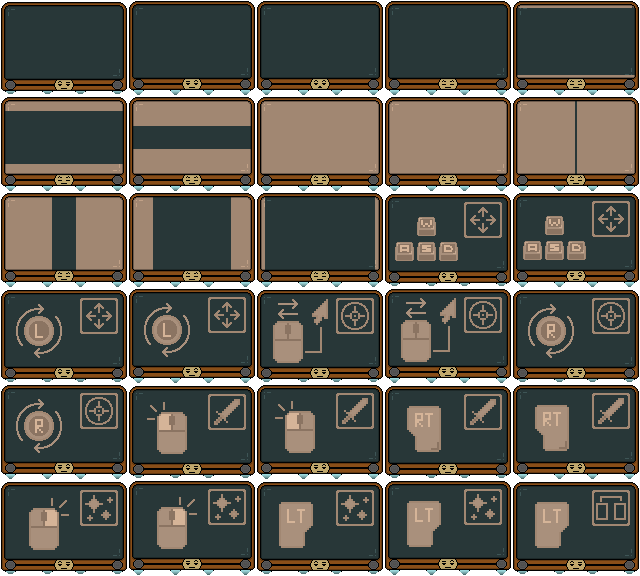
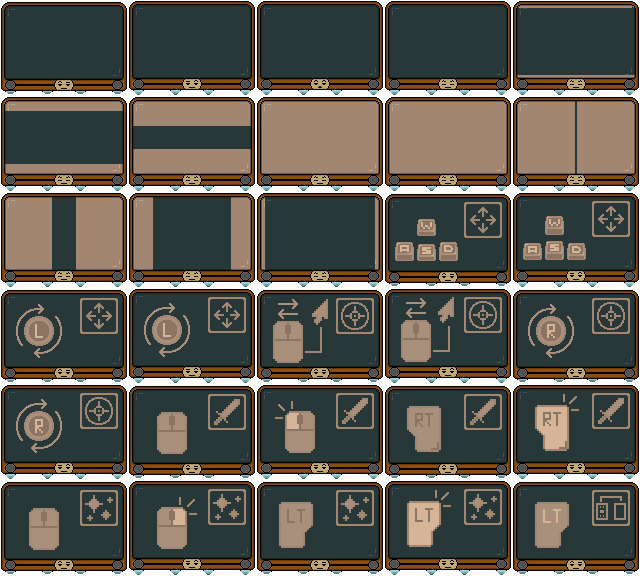
Paso movimiento
Les pongo como coautores porque hemos desarrollado codigo mediante el liveShare de Visual Studio

diff --git a/Game/Game/src/scenes/TutorialScene.cpp b/Game/Game/src/scenes/TutorialScene.cpp
@@ -1,35 +1,108 @@
 #include "TutorialScene.h"
 
 TutorialScene::TutorialScene(BattleType bt) : BattleScene(bt, true), current(Movimiento), screen(nullptr), 
-		popup(nullptr), testEnemy(nullptr), tuto(nullptr) {
+		testEnemy(nullptr), tuto(nullptr), tutoPopUp(nullptr), text(nullptr), button(nullptr) {
 
 	// Le impedimos el movimiento y el ataque
-	player->getComponent<PlayerInputComponent>()->setCanMove(true);
+	player->getComponent<PlayerInputComponent>()->setCanMove(false);
 	player->getComponent<PlayerInputComponent>()->setCanAttack(false);
+	pointer->setShowPointer(false);
+
+	CardComponent* a = player->getComponent<CardComponent>();
 
 	//Añadimos el controlador del tutorial
-	tutorialController = addGameObject();
-	tutorialController->addComponent<TutorialComponent>(this);
-
-	//Objeto tuto
-	tuto = addGameObject<Tuto>(_grp_UI, player->getComponent<Transform>());
+	GameObject* tc = addGameObject();
+	tutorialController = tc->addComponent<TutorialComponent>([&]() { activatePopUp(); }, getSteps());
 }
 
+void TutorialScene::activateInput() {
+	player->getComponent<PlayerInputComponent>()->setCanMove(true);
+}
+
+void TutorialScene::addCard() {
+	// ENSEÑAMOS LA CARTA (LA ESPADA)
+	createHand(player->getComponent<CardComponent>());
+	player->getComponent<PlayerInputComponent>()->setCanAttack(false);
+}
+
+void TutorialScene::addMeleeEnemy() {
+	// AÑADIMOS UN ENEMIGO A LA ESCENA
+	Vector2D spawnPos = player->getComponent<Transform>()->getPos() + Vector2D(MELEE_ENEMY_WIDTH + 50, 0);
+	GameObject* enemy = addGameObject<MeleeEnemy>(_grp_ENEMIES, spawnPos, MELEE_LIFE, player);
+}
+
+void TutorialScene::showAbility() {
+	// 
+}
+
+void TutorialScene::showDrops() {
+
+}
+
+void TutorialScene::showPortalCharges() {
+
+}
+
+// Activa el popup
 void TutorialScene::activatePopUp() {
+
 	// Le impedimos el movimiento y el ataque
 	player->getComponent<PlayerMovementComponent>()->setDirection(Vector2D());
 	player->getComponent<PlayerInputComponent>()->setCanMove(false);
 	player->getComponent<PlayerInputComponent>()->setCanAttack(false);
 
-	pointer->setShowPointer(false);
+	// Mostrar puntero de ratón
+	pointer->setShowPointer(true);
+	
+	// Objeto que cubre la pantalla
+	screen = addGameObject(_grp_UI);
+	screen->addComponent<Transform>(Vector2D(), VECTOR_ZERO, WIN_WIDTH, WIN_HEIGHT);
+	screen->addComponent<Image>(&sdlutils().images().at("Screen"))->attachToCamera();
 
-	//// Objeto que cubre la pantalla
-	//screen = addGameObject(_grp_TUTORIAL);
-	//screen->addComponent<Transform>(Vector2D(), VECTOR_ZERO, WIN_WIDTH, WIN_HEIGHT);
-	//screen->addComponent<Image>(&sdlutils().images().at("Screen"))->attachToCamera();
+	// Imagen de tuto (cambiar luego t->width por constantes)
+	Texture* t = &sdlutils().images().at("TutoTalking");
+	tutoPopUp = addGameObject(_grp_UI);
+	tutoPopUp->addComponent<Transform>(Vector2D(WIN_WIDTH/2 - t->width() * PIXEL_WIDTH /2, 0), Vector2D(), t->width() * PIXEL_WIDTH, t->height()/2 * PIXEL_HEIGHT);
+	Animator* anim = tutoPopUp->addComponent<Animator>(t, 376, 284, 2, 1);
+	anim->attachToCamera();
+	anim->createAnim("idle", 0, 1, 2, -1);
+	anim->play("idle");
+
+	// Boton
+	AnimatorInfo aI = AnimatorInfo(EXIT);
+	button = addGameObject<Button>(_grp_UI, [&]() { deactivatePopUp(); }, Vector2D(WIN_WIDTH / 2 - MM_BUTTON_WIDTH / 2, WIN_HEIGHT - MM_BUTTON_HEIGHT - 10), aI);
+	button->getComponent<Animator>()->attachToCamera();
 }
 
+// Desactiva el popup
 void TutorialScene::deactivatePopUp() {
+
+	// Objeto tuto
+	if (tuto == nullptr) tuto = addGameObject<Tuto>(_grp_UI, player->getComponent<Transform>());
+
+	// Desactivar
 	screen->setAlive(false);
-	popup->setAlive(false);
+	button->setAlive(false);
+	tutoPopUp->setAlive(false);
+	//text->setAlive(false);
+
+	screen = nullptr;
+	button = nullptr;
+	tutoPopUp = nullptr;
+	text = nullptr;
+
+	tutorialController->doStep();
+}
+
+// Devuelve los callbacks con sus respectivos tiempos
+vector<pair<CallBack, double>> TutorialScene::getSteps() {
+	vector<pair<CallBack, double>> steps;
+
+	steps.push_back({ [&]() {activateInput(); }, 5 });
+	steps.push_back({ [&]() {addCard(); }, -1 });
+	steps.push_back({ [&]() {addMeleeEnemy(); }, -1 });
+	steps.push_back({ [&]() {showAbility(); }, 5 });
+	steps.push_back({ [&]() {showDrops(); }, 5 });
+	steps.push_back({ [&]() {showPortalCharges(); }, 5 });
+	return steps;
 }

diff --git a/Game/Game/src/scenes/BattleScene.cpp b/Game/Game/src/scenes/BattleScene.cpp
@@ -14,7 +14,7 @@ BattleScene::BattleScene(BattleType t_, bool tutorial) : NodeScene(), type(t_) {
 	addMusic();
 
 	//Creamos el jugador e informamos a la camara de que debe seguirle
-	player = addGameObject<Player>(_grp_PLAYER);
+	player = addGameObject<Player>(_grp_PLAYER, tutorial);
 	camera->startFollowObject(player);
 
 	// Generador de enemigos
@@ -41,21 +41,32 @@ void BattleScene::createUI() {
 	cardContRight = nullptr;
 	if (cardComp != nullptr) {
 		statistics = nullptr;
-		if (healthComp != nullptr) statistics = addGameObject<StatisticsUI>(_grp_UI, healthComp->getLife(), cardComp->getMana());
-
-		// Creamos los contadores de cartas y linkeamos el componente con el contador de mazo par ala animacion de barajar
-		cardContLeft = addGameObject<CardCounter>(_grp_UI, true, cardComp);
-		cardContRight = addGameObject<CardCounter>(_grp_UI, false, cardComp);
-		cardComp->setCounter(cardContLeft);
-
-		// Añadimos el objeto que muestra la mano de cartas en la UI
-		hand = addGameObject<HandUI>(_grp_UI, cardComp);
+		if (healthComp != nullptr) createStatistics(healthComp, cardComp);
+		createCounters(cardComp);
+		createHand(cardComp);
 	}
 
 	player->getComponent<PlayerInputComponent>()->setPortalComponent(statistics->getPortalComp());
 
 	// El puntero sigue al player
 	pointer->getComponent<PointerComponent>()->setFollowObject(player);
+}
+
+void BattleScene::createCounters(CardComponent* cardComp) {
+	// Creamos los contadores de cartas y linkeamos el componente con el contador de mazo par ala animacion de barajar
+	cardContLeft = addGameObject<CardCounter>(_grp_UI, true, cardComp);
+	cardContRight = addGameObject<CardCounter>(_grp_UI, false, cardComp);
+	cardComp->setCounter(cardContLeft);
+}
+
+void BattleScene::createHand(CardComponent* cardComp) {
+	// Añadimos el objeto que muestra la mano de cartas en la UI
+	hand = addGameObject<HandUI>(_grp_UI, cardComp);
+}
+
+void BattleScene::createStatistics(HealthComponent* healthComp, CardComponent* cardComp) {
+	// Crear la barra de estadísticas
+	statistics = addGameObject<StatisticsUI>(_grp_UI, healthComp->getLife(), cardComp->getMana());
 }
 
 void BattleScene::OnPlayerDies() {

diff --git a/Game/Game/src/components/General Components/TutorialComponent.cpp b/Game/Game/src/components/General Components/TutorialComponent.cpp
@@ -3,18 +3,59 @@
 #include "../../core/GameControl.h"
 
 // Constructora
-TutorialComponent::TutorialComponent(TutorialScene* _t) : ts(_t), startime(SDL_GetTicks()), timeOffset(0) {}
+TutorialComponent::TutorialComponent(CallBack callback, vector<pair<CallBack, double>> steps) : 
+	activatePopup(callback), startime(SDL_GetTicks()), timeOffset(0), steps(steps),
+	current(Movimiento), firstActionDone(false), canCount(true) {}
 
-// Inicializa el componente
-void TutorialComponent::initComponent() {
-	current = Movimiento;
-}
 
 // Actualiza la escena
 void TutorialComponent::update() {
-	timeOffset += SDLApplication::instance()->getDeltaTimeSeconds();
+	// Si el jugador ha realizado la accion debida, empieza el contador
+	if (canCount) timeOffset += SDLApplication::instance()->getDeltaTimeSeconds();
+	else setCanCount();
 
-	if (timeOffset >= 4) {
-		ts->activatePopUp();
+	cout << timeOffset << endl;
+
+	// Si pasa 1 segundo y esta desactivado el popup o si se ha activado la accion y ha pasado su tiempo de delay, se activa
+	if ((timeOffset >= 1 && !firstActionDone) || (timeOffset >= steps[current].second && firstActionDone)) {
+		activatePopup();
+		firstActionDone = true;
+		canCount = false;
+		timeOffset = 0;
+	}
+}
+
+void TutorialComponent::setCanCount() {
+	
+	switch(current){
+		case Movimiento:
+			if (GameControl::instance()->movementX() || GameControl::instance()->movementY()) canCount = true;
+		break;
+
+		case Carta:
+			// Si he usado la carta 5 veces
+			//if () canCount = true;
+		break;
+
+		case Descarte:
+			// Si gasto una carta, hablo del sistema de mazo, pila y mano (y le doy su mazo bueno)
+			timeOffset = steps[Descarte].second;
+		break;
+
+		case Enemigos:
+			// Si el enemigo muere, timeOffSet = steps[Enemigos].second 
+		break;
+
+		case Habilidad:
+			// Si el jugador realiza la accion de habilidad, empezar a contar
+		break;
+
+		case Drops:
+			// Si un enemigo muere, espero 2 segundos para hablar de los drops
+			break;
+
+		case Portal:
+			// Si el portal llega a 100 %, muestro el popUp
+		break;
 	}
 }

diff --git a/Game/Game/src/scenes/TutorialScene.h b/Game/Game/src/scenes/TutorialScene.h
@@ -5,13 +5,18 @@
 
 class TutorialScene : public BattleScene {
 private:
-	GameObject* screen;
-	GameObject* popup;
-	GameObject* tutorialController;
+	// Objetos de tutorial
+	TutorialComponent* tutorialController;
 	Tuto* tuto;
-	Pasos current;
-	// Generador de enemigos
+	// Enemigo para testear
 	GameObject* testEnemy;
+	// Cosas del popup
+	GameObject* screen;
+	GameObject* tutoPopUp;
+	GameObject* text;
+	Button* button;
+	// Paso en el que estamos
+	Pasos current;
 
 public:
 	// Constructora
@@ -19,18 +24,22 @@ public:
 
 	// PASOS DEL TUTORIAL
 	// Activar input 
-	//void activateInput();
-	//// Añadir carta (enseñar como se apunta y como se usan)	
-	//void addCard();
-	//// Añadir enemigos (matarlos) y las barras de vida y mana
-	//void addEnemy();
-	//// Enseñar a usar las habilidades de las cartas (y que el mana baja)
-	//void showAbility();
-	//// Añadir aun mas enemigos y mostrar que sube el maná si droppean
-	//void showDrops();
-	//// Explicar que los enemigos cargan el portal
-	//void showPortalCharges();
-
+	void activateInput();
+	// Añadir carta (enseñar como se apunta y como se usan)	
+	void addCard();
+	// Añadir enemigos (matarlos) y las barras de vida y mana
+	void addMeleeEnemy();
+	// Enseñar a usar las habilidades de las cartas (y que el mana baja)
+	void showAbility();
+	// Añadir aun mas enemigos y mostrar que sube el maná si droppean
+	void showDrops();
+	// Explicar que los enemigos cargan el portal
+	void showPortalCharges();
+	// Activa el popup
 	void activatePopUp();
+	// Desactiva el popup
 	void deactivatePopUp();
+
+	// Devuelve los callbacks con sus respectivos tiempos
+	vector<pair<CallBack, double>> getSteps();
 };

diff --git a/Game/Game/src/gameObjects/General Objects/Tuto.cpp b/Game/Game/src/gameObjects/General Objects/Tuto.cpp
@@ -1,15 +1,37 @@
 #include "Tuto.h"
 #include "../../core/SDLApplication.h"
+#include "../../core/GameControl.h"
 
 // Inicializa el objeto
 void Tuto::initGameObject(Transform* pl) {
+	// Componente transaforms
 	addComponent<Transform>(Vector2D(WIN_WIDTH - 128 * 2, WIN_HEIGHT - 128 * 2),
 		VECTOR_ZERO, COMPANION_WIDTH, COMPANION_HEIGHT);
 
+	// Componente Animator
 	myAnim = addComponent<Animator>(SDLApplication::getTexture(COMPANION_TEXTURE),
 		COMPANION_SPRITE_WIDTH, COMPANION_SPRITE_HEIGHT, 6, 5);
-	myAnim->createAnim(IDLE, 0, 1, 5, -1);
-	myAnim->play(IDLE);
 
+	// Crear animaciones
+	myAnim->createAnim(IDLE, 0, 1, 5, -1);
+	// Animaciones con controller
+	if (ih().isControllerConnected()) {
+		myAnim->createAnim("MovementCtrlls", 15, 16, 5, -1);
+		myAnim->createAnim("AimCtrlls", 19, 20, -1);
+		myAnim->createAnim("AttackCtrlls", 23, 24, -1);
+		myAnim->createAnim("AbilityCtrlls", 27, 28, -1);
+	}
+	// Animaciones con teclas
+	else {
+		myAnim->createAnim("MovementCtrlls", 13, 14, 5, -1);
+		myAnim->createAnim("AimCtrlls", 17, 18, -1);
+		myAnim->createAnim("AttackCtrlls", 21, 22, -1);
+		myAnim->createAnim("AbilityCtrlls", 25, 26, -1);
+	}
+
+	// Reproducir base
+	myAnim->play("MovementCtrlls");
+
+	// Componente lerp
 	l = addComponent<LerpComponent>(pl);
 }

diff --git a/Game/Game/src/components/General Components/TutorialComponent.h b/Game/Game/src/components/General Components/TutorialComponent.h
@@ -10,17 +10,22 @@ enum Pasos {
 class TutorialScene;
 class TutorialComponent : public Component {
 private:
-	TutorialScene* ts;
+	vector<pair<CallBack, double>> steps;
+	CallBack activatePopup;
 	Pasos current;
 	float startime, timeOffset;
-
+	bool firstActionDone, canCount;
 public:
 	// Identificador
 	static const int id = _TUTORIAL_COMPONENT;
 	// Constructora
-	TutorialComponent(TutorialScene* _t);
-	// Inicializa el componente
-	void initComponent();
+	TutorialComponent(CallBack callback, vector<pair<CallBack, double>> steps);
 	// Actualiza la escena
 	void update();
+
+	void setCanCount();
+	inline bool getCanCount() { return canCount; }
+	inline void doStep() { steps[current].first(); }
+
+	inline void setCurrentStep(Pasos nStep) { current = nStep; }
 };

diff --git a/Game/Game/src/scenes/BattleScene.h b/Game/Game/src/scenes/BattleScene.h
@@ -53,6 +53,9 @@ public:
 
 	// - UI -
 	void createUI();
+	void createHand(CardComponent* cc);
+	void createCounters(CardComponent* cc);
+	void createStatistics(HealthComponent* hc, CardComponent* cc);
 	// Comunicar cambios a la UI
 	void changeUISelected(bool key, int number);
 	void discardUI(deque<Card*>::iterator discarded);
